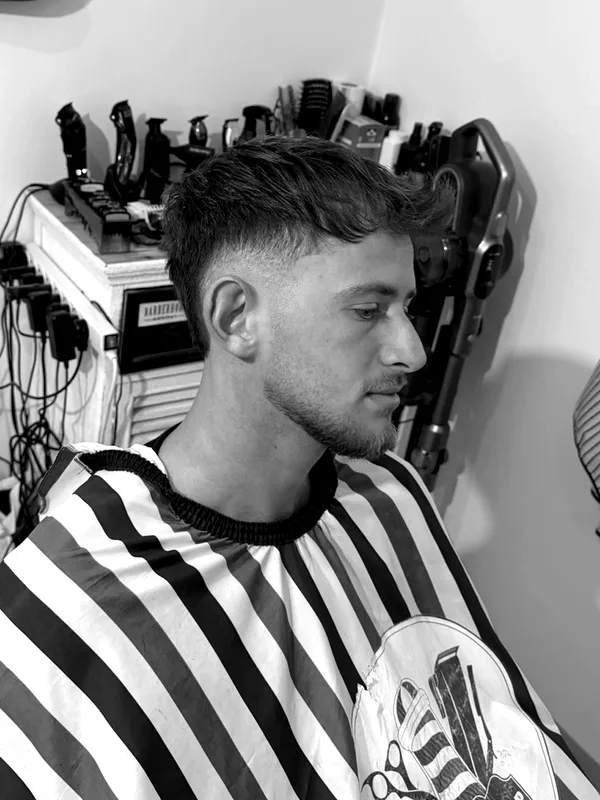
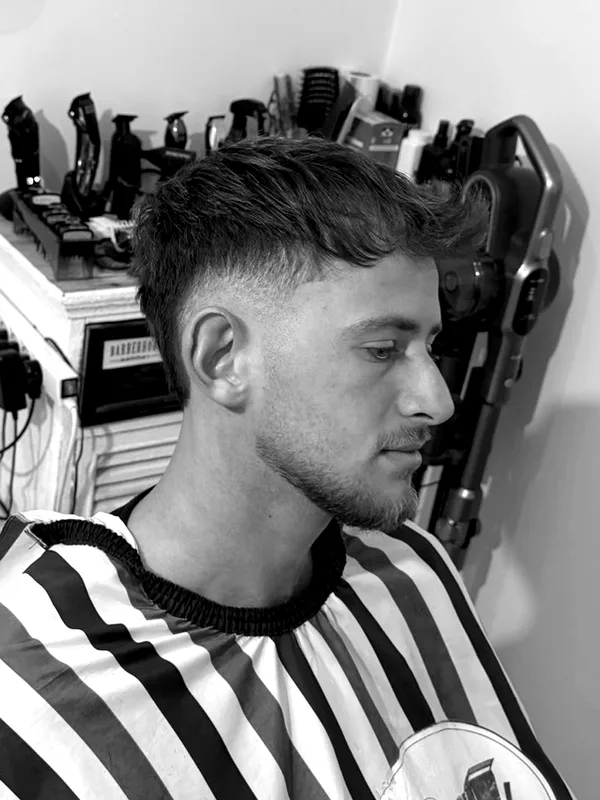
Tighter crop for gallery photo 3 to match the others
Claude-Session: https://claude.ai/code/session_018U6XnTRw8cfK5aTqAa1Hdx

diff --git a/index.html b/index.html
@@ -55,7 +55,7 @@
       <div class="track" tabindex="0" aria-label="גלריית עבודות, גלול הצידה">
         <figure><div class="ph"><img src="img/work1.webp" alt="טייפר עם טקסטורה למעלה" loading="lazy" width="600" height="800"></div><figcaption><b>טייפר עם טקסטורה</b></figcaption></figure>
         <figure><div class="ph"><img src="img/work2.webp" alt="מידל פארט עם פלואו אחורי" loading="lazy" width="600" height="800"></div><figcaption><b>מידל פארט עם פלואו אחורי</b></figcaption></figure>
-        <figure><div class="ph"><img src="img/work3.webp" alt="בארסט פייד" loading="lazy" width="600" height="800"></div><figcaption><b>בארסט פייד</b></figcaption></figure>
+        <figure><div class="ph"><img src="img/work3.webp?v=2" alt="בארסט פייד" loading="lazy" width="600" height="800"></div><figcaption><b>בארסט פייד</b></figcaption></figure>
         <figure><div class="ph"><img src="img/work4.webp" alt="טייפר וזקן" loading="lazy" width="600" height="800"></div><figcaption><b>טייפר וזקן</b></figcaption></figure>
         <figure><div class="ph"><img src="img/work5.webp?v=2" alt="תספורת וזקן מלא מעוצב" loading="lazy" width="600" height="800"></div><figcaption><b>זקן מלא מעוצב</b></figcaption></figure>
       </div>
